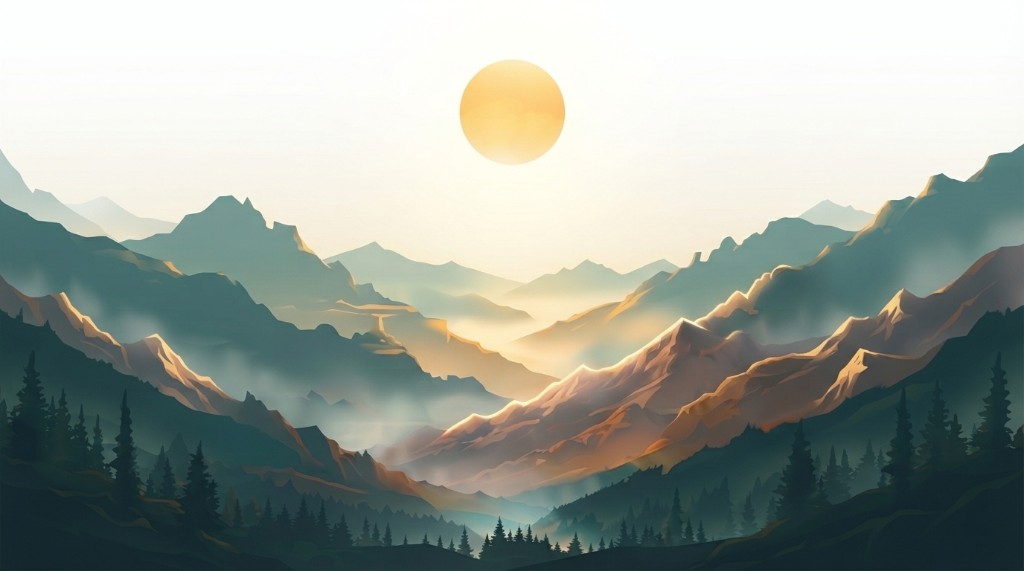
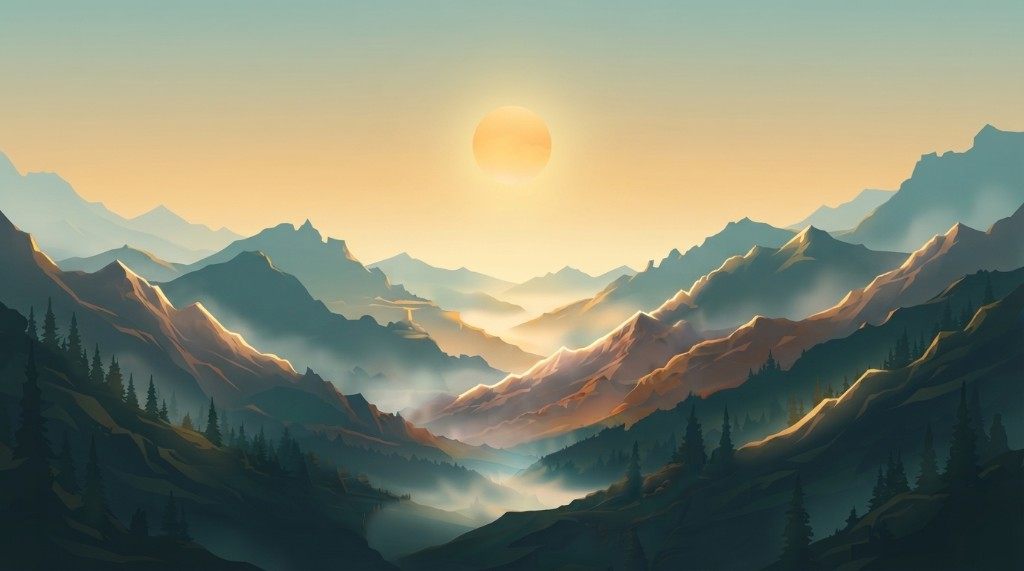
Refresh midday Home wallpaper with the latest day scene.

diff --git a/app.js b/app.js
@@ -468,8 +468,8 @@ const HOME_HERO_WALLPAPERS = {
     desktop: "assets/home-hero-morning-wide.png?v=2",
   },
   day: {
-    mobile: "assets/home-hero-day.png?v=1",
-    desktop: "assets/home-hero-day-wide.png?v=1",
+    mobile: "assets/home-hero-day.png?v=3",
+    desktop: "assets/home-hero-day-wide.png?v=3",
   },
   dusk: {
     mobile: "assets/home-hero-afternoon.png?v=1",

diff --git a/index.html b/index.html
@@ -1530,6 +1530,6 @@
 
     <script src="https://cdn.jsdelivr.net/npm/@supabase/supabase-js@2"></script>
     <script src="supabase-config.js"></script>
-    <script src="app.js?v=328"></script>
+    <script src="app.js?v=330"></script>
   </body>
 </html>
